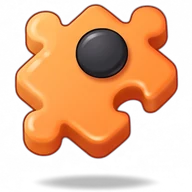
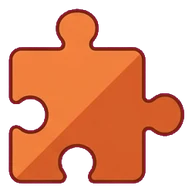
v1.51: ホームのアイコンをつや消し・角を抑えたデザインに差し替え
Claude-Session: https://claude.ai/code/session_0118o17S56VQbgE9RZWJqt8Z

diff --git a/index.html b/index.html
@@ -1633,7 +1633,7 @@ button.primary:active,.primary:active,.hm-play:active,.hc-btn:active,.rev-mv:act
 <div id="bdToast" aria-live="polite"></div>
 <!-- ホーム -->
 <section class="scr" data-scr="home">
-  <div class="ver" id="ver" aria-label="バージョン">v1.50</div>
+  <div class="ver" id="ver" aria-label="バージョン">v1.51</div>
   <button class="rules-link" id="rulesLink" aria-label="ルール" title="ルール"><svg viewBox="0 0 24 24" aria-hidden="true"><path d="M4 5.5C4 4.7 4.7 4 5.5 4H11v15H5.5c-.8 0-1.5.5-1.5 1.2V5.5z"/><path d="M20 5.5c0-.8-.7-1.5-1.5-1.5H13v15h5.5c.8 0 1.5.5 1.5 1.2V5.5z"/></svg></button>
   <div class="hm">
     <button class="cg-bg" id="cgBg" type="button" aria-label="キャラ"><img id="cgBgImg" alt=""></button>
@@ -5623,7 +5623,7 @@ addEventListener('keydown',e=>{if(CUR!=='review'||e.target.closest('input,textar
 function pfSync(){const el=$('pfStats');if(!el)return;let s={};try{s=bdStats()}catch(e){}const g=s.games|0,w=s.wins|0;
   el.innerHTML='<div><b>'+g+'</b><small>'+T('対局')+'</small></div><div><b>'+(g?Math.round(w/g*100)+'%':'—')+'</b><small>'+T('勝率')+'</small></div><div><b>'+(s.streak|0)+'</b><small>'+T('連勝中')+'</small></div>'}
 /* カラーの絵（Geminiで生成して切り抜いたもの） */
-window.BOCCH_IC={};['bolt','pad','hand','puzzle','review','trophy','live'].forEach(k=>{window.BOCCH_IC[k]='<img src="img/ic/'+k+'.webp?v=1" alt="" decoding="async">'});
+window.BOCCH_IC={};['bolt','pad','hand','puzzle','review','trophy','live'].forEach(k=>{window.BOCCH_IC[k]='<img src="img/ic/'+k+'.webp?v=2" alt="" decoding="async">'});
 
 /* カラーの絵をホームのボタンに入れる */
 {const I=window.BOCCH_IC,put=(sel,k)=>{document.querySelectorAll(sel).forEach(b=>{const o=b.querySelector('svg');const w=document.createElement('span');w.className='ic3w';w.innerHTML=I[k];if(o)o.replaceWith(w);else b.prepend(w)})};
